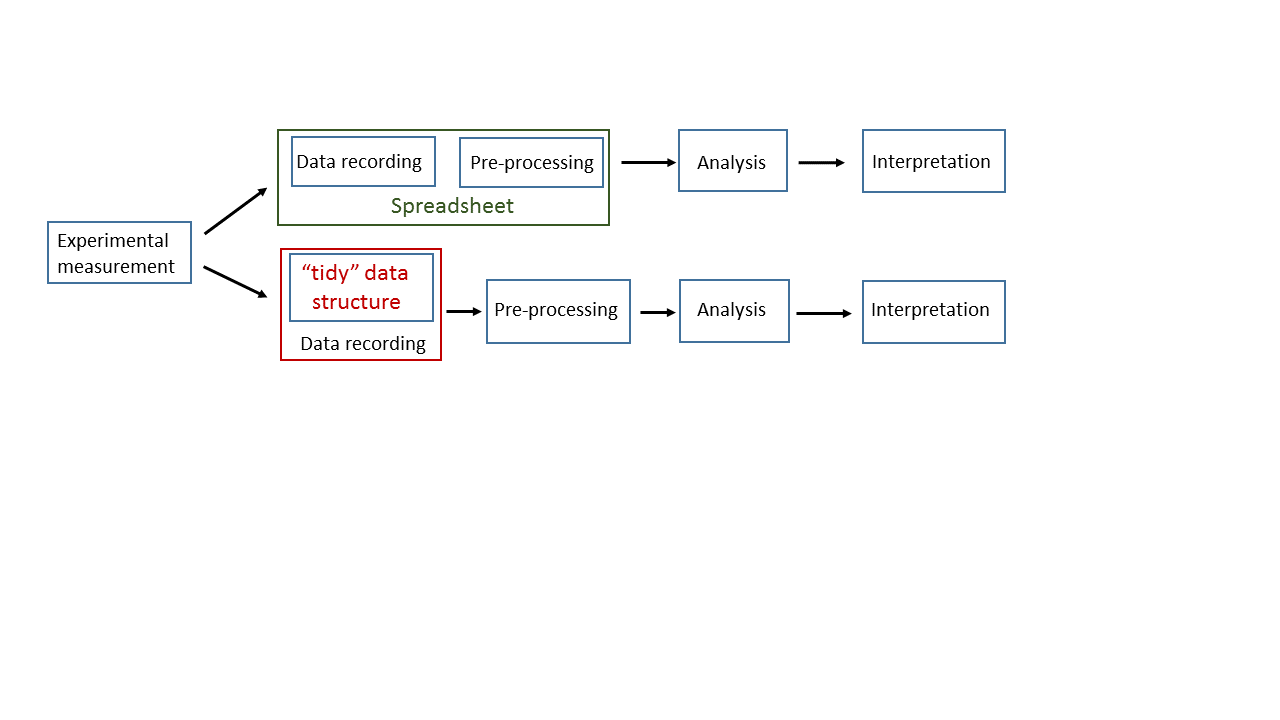
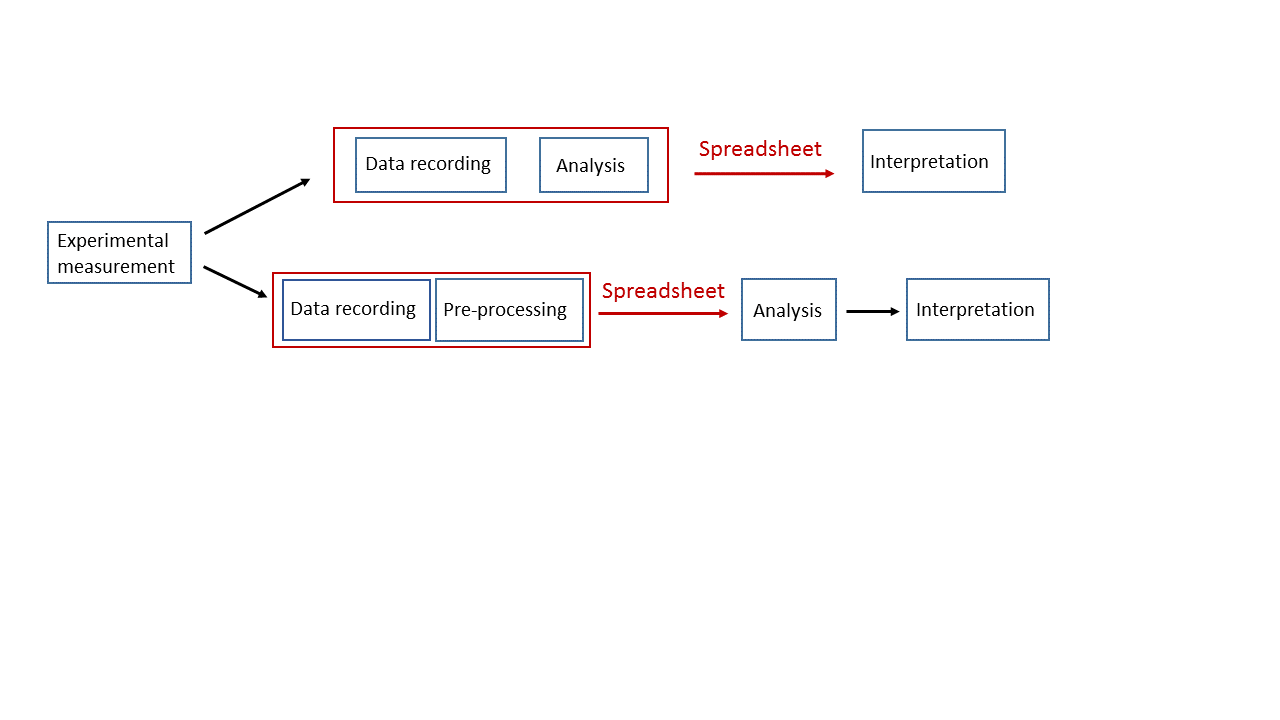
updated research_approach.tex Jun 25 15:08:57 MDT

Changed region(s): [[0.2188, 0.3361, 0.8125, 0.5194], [0.1562, 0.1528, 0.7812, 0.3361]]

diff --git a/writing/research_approach.tex b/writing/research_approach.tex
@@ -59,11 +59,13 @@ varying experimental systems and researchers. Basic sources of biomedical data r
 from relatively small sets of measurements, such as animal body weights and bacterial 
 cell counts that may be recorded by hand, to thousands or millions of instrument generated 
 data points from various imaging, -omic, and flow-cytometry experiments. In either case, 
-there is a generally common data or information workflow (Figure \ref{fig:workflow}) that proceeds 
+there is a generally common data or information workflow that proceeds 
 from measurement, to data recording, pre-processing, analysis, and interpretation 
-\cite{}.  However, the distinct actions of data recording and data pre-processing are often 
-merged or combined as a single entity using commercial or open source spreadsheets.  Such 
-spreadsheets include various levels of meta-data, including filesystem data that determines 
+\cite{}.  However, the distinct actions of data recording, data pre-processing, and analysis 
+are often merged or combined as a single entity by the researcher using commercial or open 
+source spreadsheets, or as part of an often proprietary experimental measurement 
+system\/software combination (Figure \ref{fig:workflow}).  Such spreadsheets include various 
+levels of meta-data, including filesystem data that determines 
 reading and writing operations by the software environment in which it runs, together with multiple 
 experimental data types and units recorded in sometimes complicated arrangements of tables, 
 charts, notes, and other figures.  Additionally, and especially for instrument generated data sets, 
@@ -71,14 +73,14 @@ these spreadsheets are often used to pre-process the data with black-box statist
 and graph generating 
 functions that are combined with the primary or raw experimental data.  It is also widely 
 known and discussed among data scientists, mathematical modelers, and statisticians 
-\cite{krishnan2016towards}, that there is a frequent need to discard, transform, and 
-reformat various elements of these spreadsheets in an often labor intensive and error 
+\cite{broman2018data, krishnan2016towards}, that there is a frequent need to discard, 
+transform, and reformat various elements of these spreadsheets in an often labor intensive and error 
 prone process of ``data cleaning'', in order to apply more advanced computational methods 
 and to integrate the data with other analysis and visualization platforms.
 
-\textbf{Here, we identify the clear separation between data recording and data pre-processing 
-as a critical point for enhancement of data reproducibility.} Such a rigorous demarcation requires 
-some change in the conventional understanding and use of spreadsheets, and a recognition by 
+\textbf{Here, we identify the clear separation between data recording, data pre-processing, and
+analysis as a critical point for enhancement of data reproducibility.} Such a rigorous demarcation 
+requires some change in the conventional understanding and use of spreadsheets, and a recognition by 
 biomedical researchers that recent advances in computer programming languages, especially the 
 R programming language, provide user-friendly and accessible tools and concepts that can be 
 used to build on their existing methods to implement a transparent and reproducible data workflow. 
@@ -89,9 +91,9 @@ for a wide range of individuals with differing roles within small and large rese
 General principles and guidelines are presented separately from implementation and examples. 
 Additionally, the training modules will be developed on-site with NIH-funded microbiology 
 and immunology labs devoted to anti-tuberculosis drug and vaccine development. 
-\textbf{Our ultimate educational goal is introduce the language, concepts, and tools of R-based 
-``tidy'' data structures to the laboratory bench scientist whose attention is rather to their 
-experimental technique and collection of accurate data, and who may have little or no background 
+\textbf{Our primary educational goal is to introduce the language, concepts, and tools of an R-based 
+ecosystem for reproducible research to laboratory bench scientists whose attention is rather to 
+their experimental technique and collection of accurate data, and who may have little or no background 
 in the use of general purpose software tools.} While this proposal uses examples from microbiology 
 and immunology experiments, the collection of primary data in a flexible, open source, 
 transparent, and reproducible format or data structure that can be kept in it's primary state 
@@ -100,8 +102,9 @@ small scale biomedical science projects.
 
 \begin{figure}[ht] \includegraphics[width =
 \textwidth, trim={0 9cm 0 3cm}, clip]{figures/workflow.png} 
-\caption{Data workflows with spreadsheet-combined data recording and pre-processing, 
-and separation of data recording and pre-processing using a  ``tidy'' data structure.} 
+\caption{Example data workflows illustrating the spreadsheet-based output from
+combined data recording and analysis, and combined data-recording and pre-processsing as potential
+critial points of failure for reproducible research.} 
 \label{fig:workflow} \end{figure}
 
 
